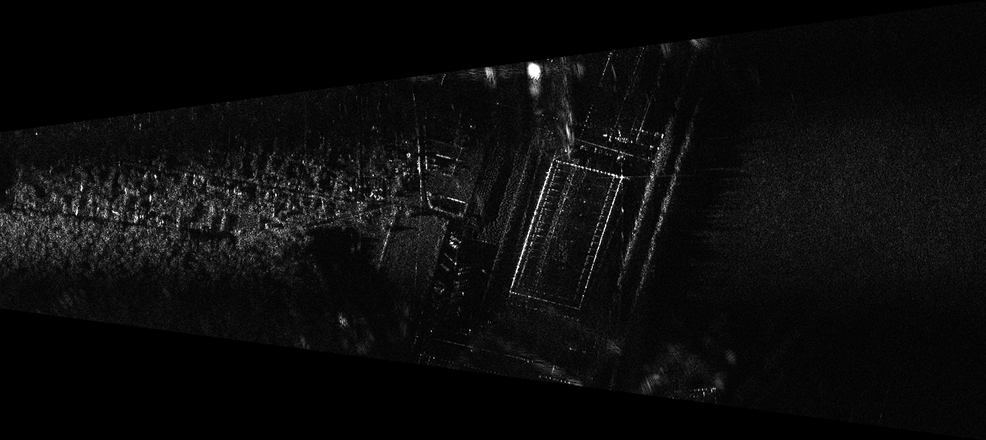
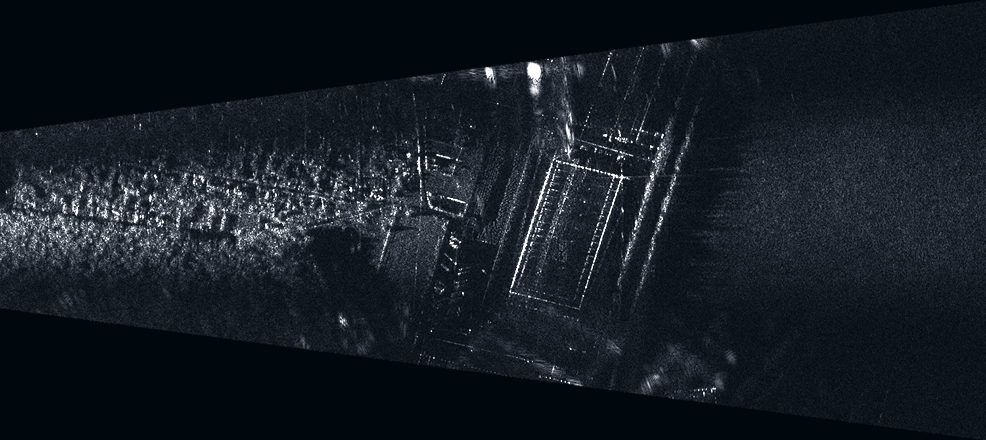
Added new images

diff --git a/templates/macros.html b/templates/macros.html
@@ -9,7 +9,7 @@
   <meta name="description" content="{% if page.description %}{{ page.description | striptags | trim | truncate(length=160) }}{% elif section.description %}{{ section.description | striptags | trim | truncate(length=160) }}{% else %}{{ config.description }}{% endif %}">
 
   <link rel="stylesheet" href="{{ config.base_url ~ "/main.css" }}">
-  <link rel="icon" type="image/png" href="{{ config.base_url ~ "/img/icons/whs31.png" }}">
+  <link rel="icon" type="image/png" href="{{ config.base_url ~ "/img/icons/quasar.png" }}">
 </head>
 {% endmacro head %}
 

diff --git a/content/_index.md b/content/_index.md
@@ -1,11 +1,11 @@
 +++
 [extra]
 slides = [
-  {src = "/img/quasar-3.jpg",  type = "image"},
+  {src = "/img/quasar-3.png",  type = "image"},
   {src = "/img/quasar-6.png",  type = "image"},
-  {src = "/img/quasar-1.jpg",  type = "image"},
-  {src = "/img/quasar-4.jpg",  type = "image"},
-  {src = "/img/quasar-5.jpg",  type = "image"},
+  {src = "/img/quasar-1.png",  type = "image"},
+  {src = "/img/quasar-4.png",  type = "image"},
+  {src = "/img/quasar-5.png",  type = "image"},
 ]
 
 [[extra.nav_links]]
@@ -81,7 +81,7 @@ href = "/publications/"
 Изображение формируется непрерывно по мере движения носителя («склеивается» из полос).
 Режим обеспечивает широкий охват земной поверхности на протяжении всего маршрута при сохранении стабильного качества детализации.
 
-![Quasar strip](/img/quasar-3.jpg)
+![Quasar strip](/img/quasar-strip.png)
 
 ### Видеопоток
 Видеорежим реализован в виде покадрового синтезирования телескопических радиолокационных изображений с временной выборкой: каждый кадр синтезируется независимо из скользящего временного окна голограммы. Результат кодируется в **H.265/HEVC** через FFmpeg с настраиваемыми параметрами качества (CRF 18–28) и частотой до 120 кадров/сек.

diff --git a/content/_index.en.md b/content/_index.en.md
@@ -1,11 +1,11 @@
 +++
 [extra]
 slides = [
-  {src = "/img/quasar-3.jpg",  type = "image"},
+  {src = "/img/quasar-3.png",  type = "image"},
   {src = "/img/quasar-6.png",  type = "image"},
-  {src = "/img/quasar-1.jpg",  type = "image"},
-  {src = "/img/quasar-4.jpg",  type = "image"},
-  {src = "/img/quasar-5.jpg",  type = "image"},
+  {src = "/img/quasar-1.png",  type = "image"},
+  {src = "/img/quasar-4.png",  type = "image"},
+  {src = "/img/quasar-5.png",  type = "image"},
 ]
 
 [[extra.nav_links]]
@@ -70,7 +70,7 @@ This provides **maximum resolution**, while the image coverage is limited to the
 The image is formed continuously as the carrier moves, by stitching strips together.
 This mode provides wide terrain coverage throughout the route while maintaining stable detail quality.
 
-![QuaSAR stripmap](/img/quasar-3.jpg)
+![QuaSAR stripmap](/img/quasar-strip.png)
 
 ### Video Stream
 Video mode is implemented as frame-by-frame synthesis of spotlight radar images with temporal sampling: each frame is synthesized independently from a sliding time window of the hologram. The result is encoded in **H.265/HEVC** through FFmpeg with configurable quality parameters (CRF 18-28) and a frame rate of up to 120 fps.
